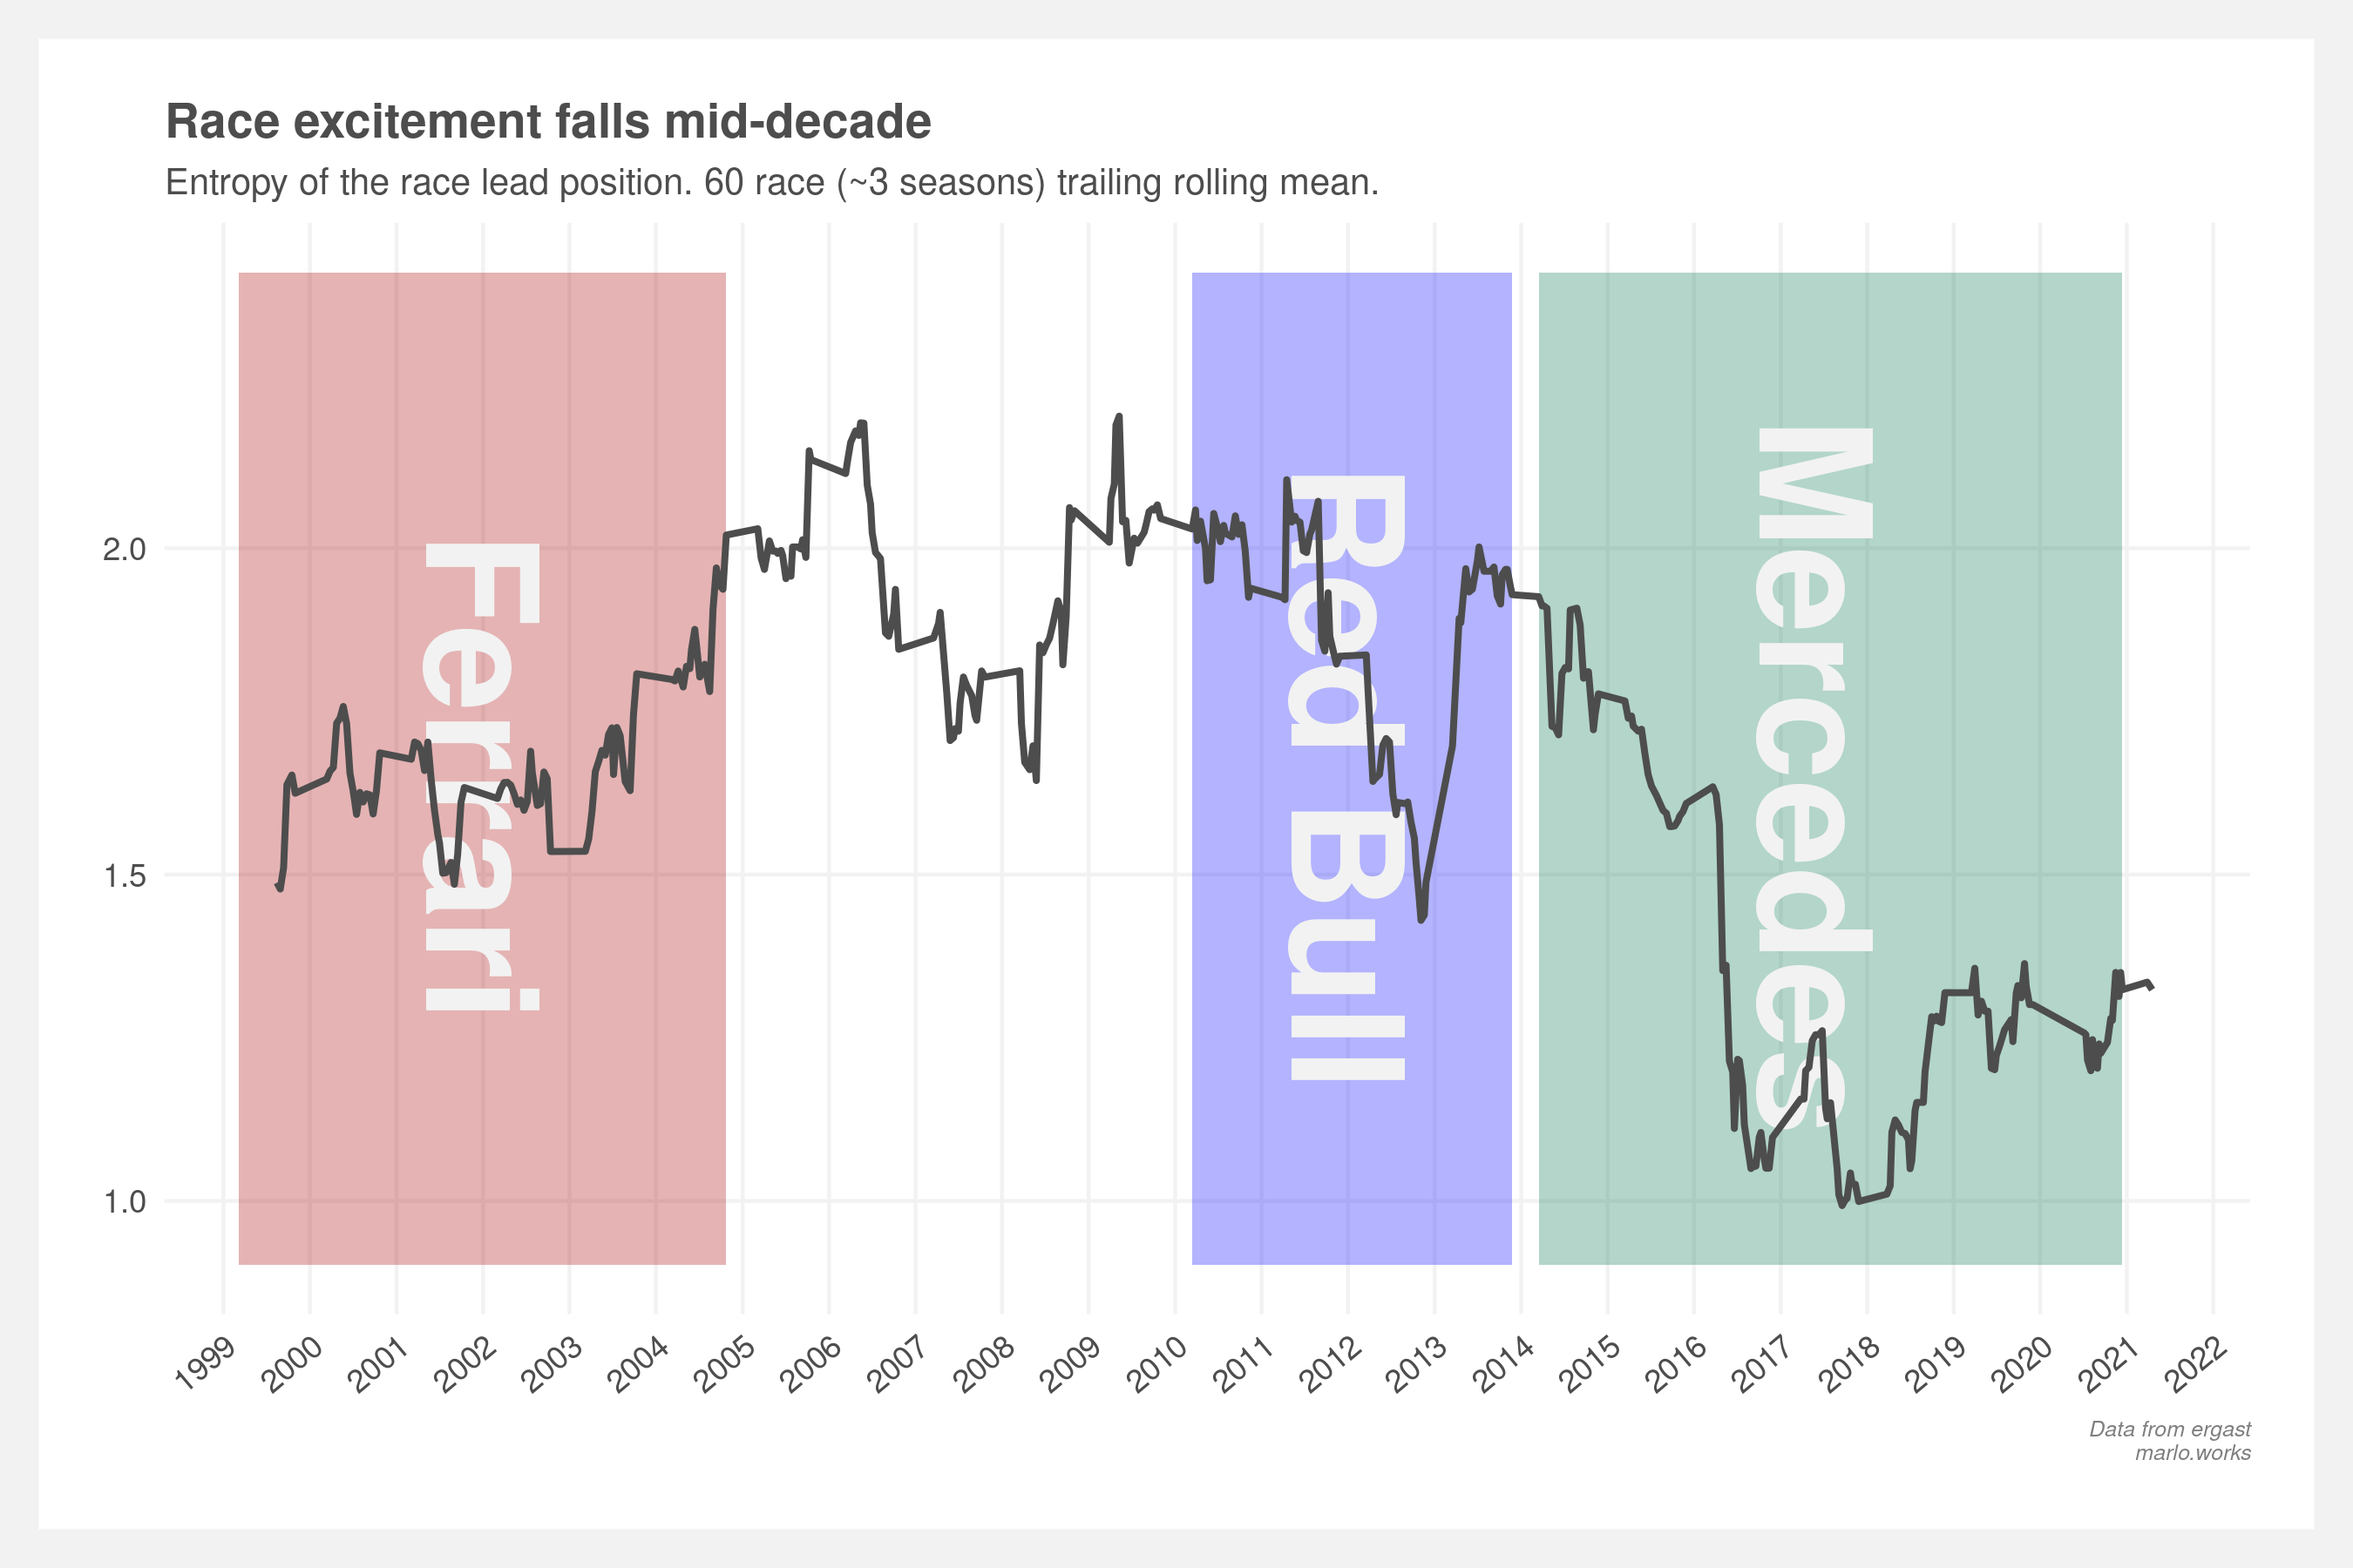
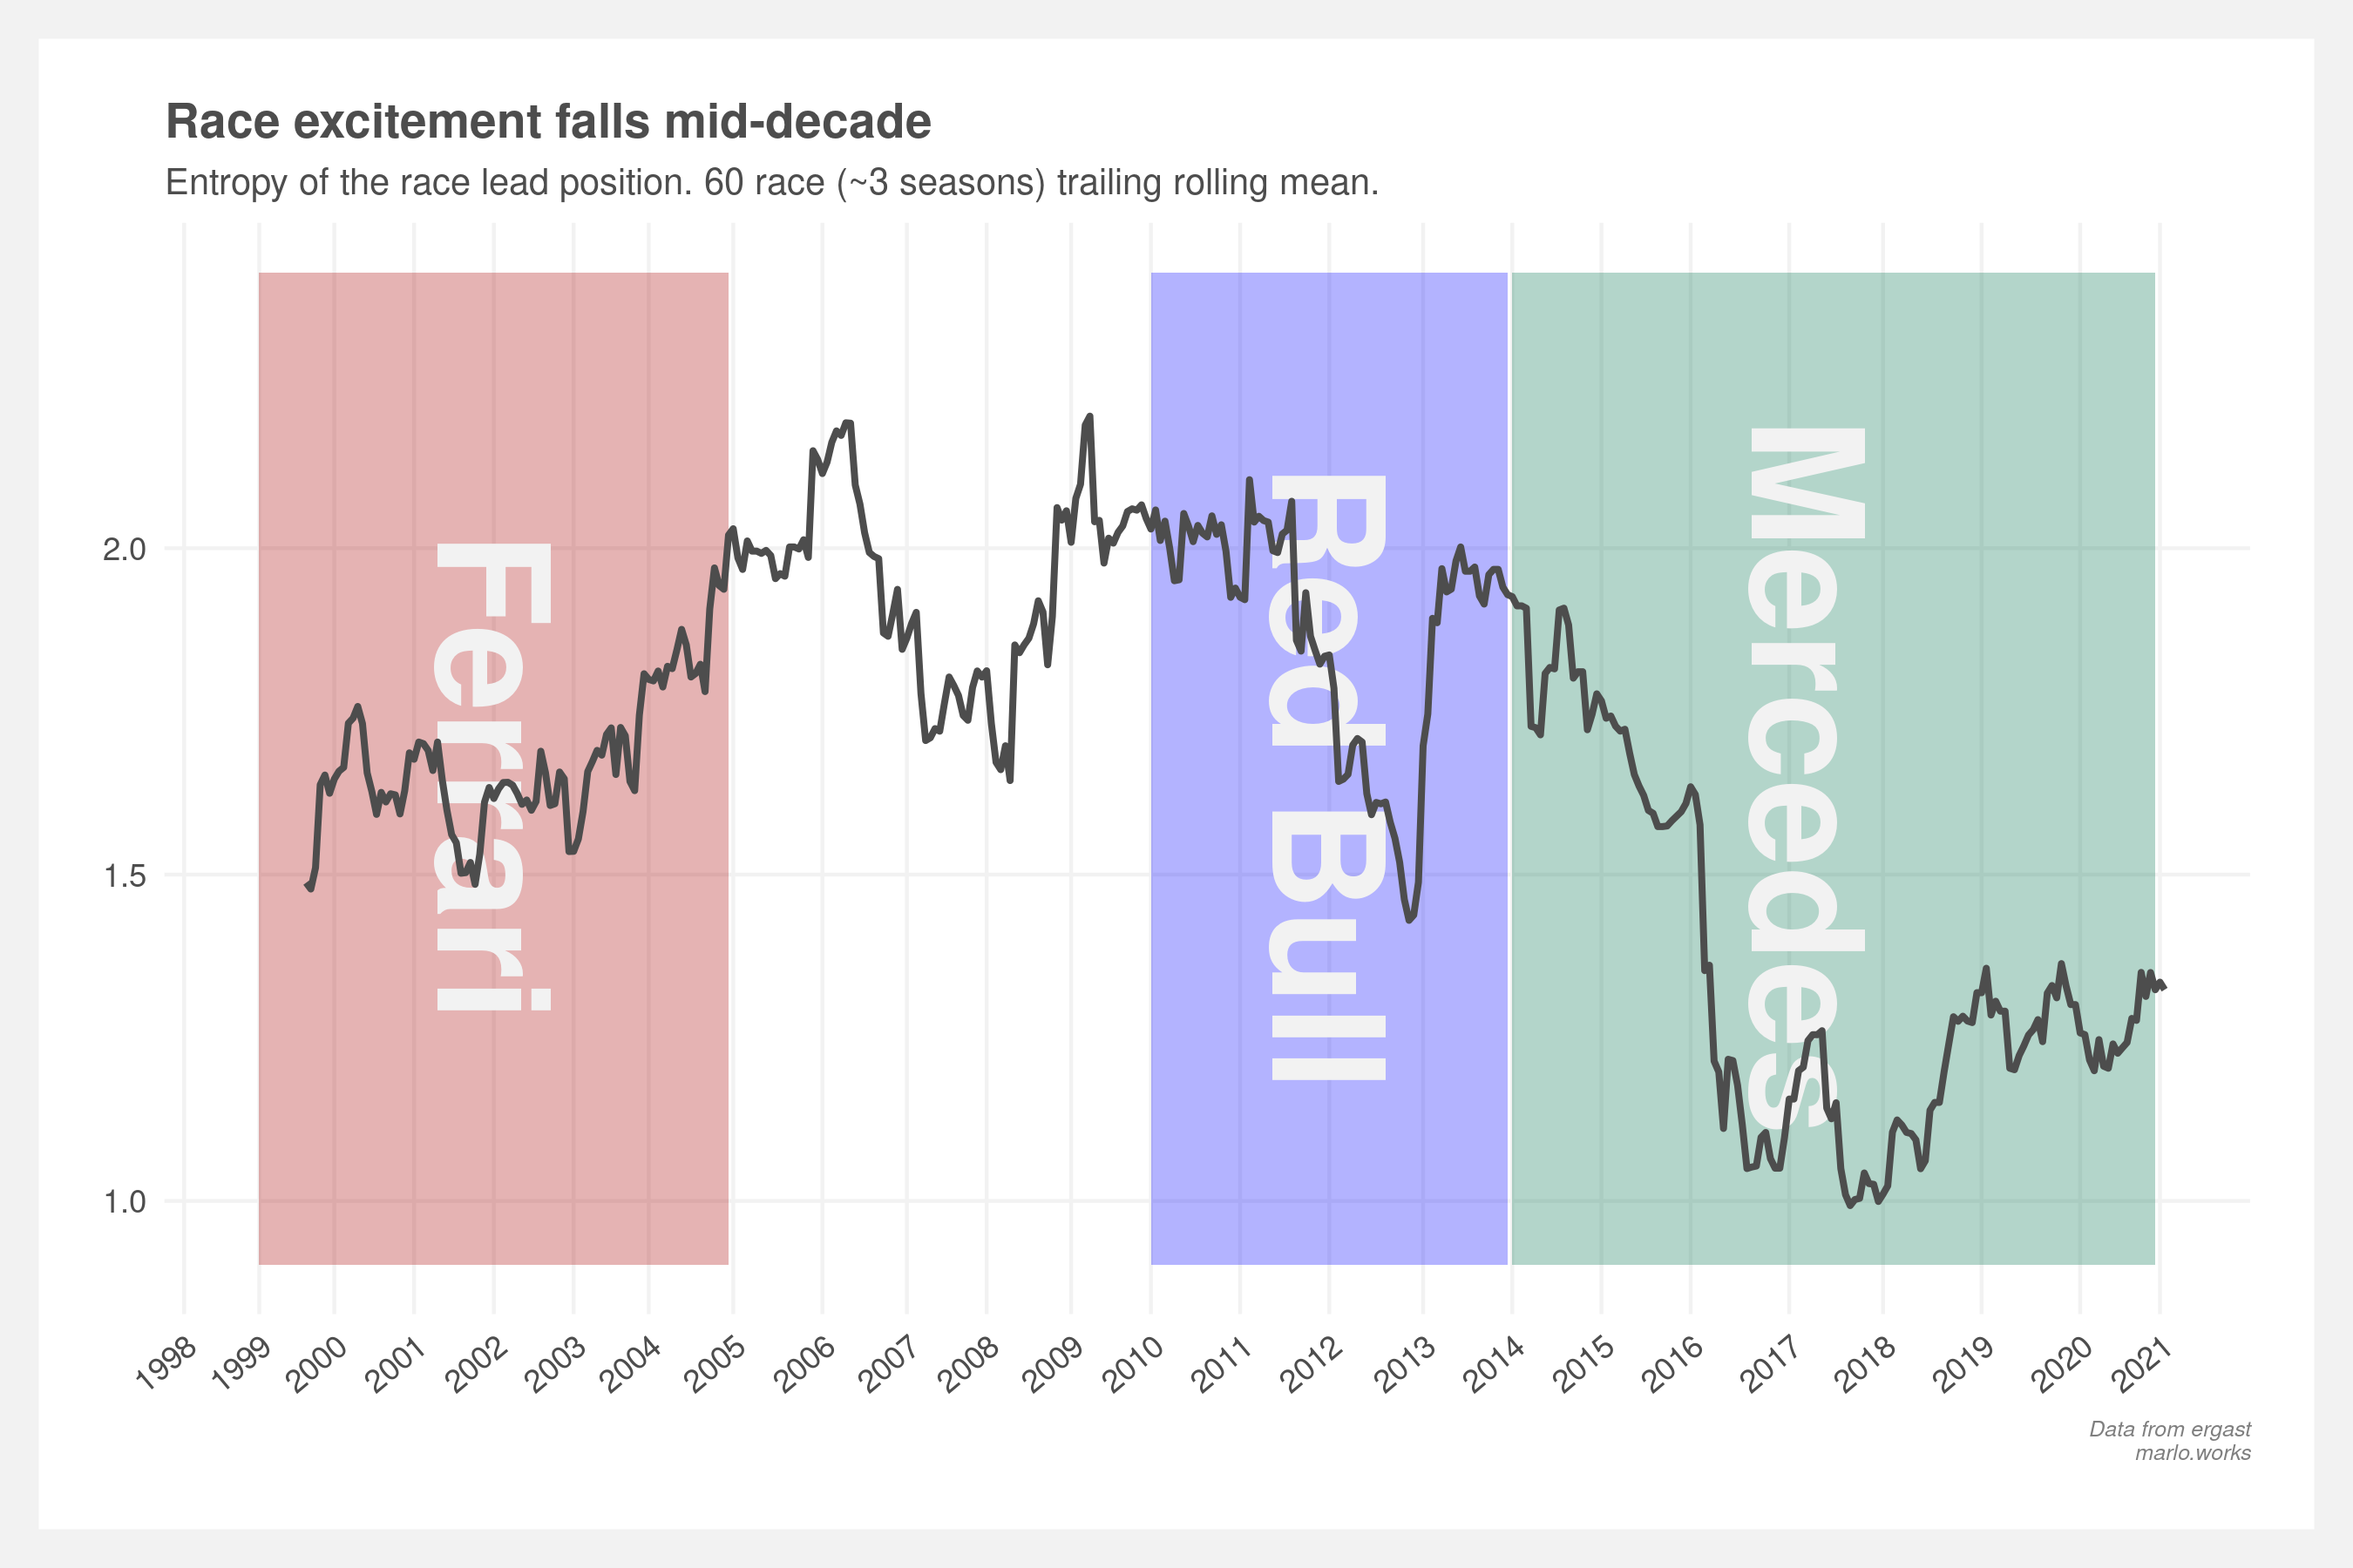
rebuilding site Tue 20 Apr 2021 02:36:32 PM EDT

diff --git a/posts/f1-entropy/index.html b/posts/f1-entropy/index.html
@@ -129,7 +129,7 @@
 <p align="center">
 <img src="/img/posts/F1-entropy/top_five.png" width=90%>
 </p>
-<p>The inverse, the worst races by excitement, are races where the pole sitter maintained the lead throughout the entire race. There&rsquo;s been 80 of these races since 1996.</p>
+<p>The inverse, the worst races by excitement, are races where the first lap leader maintained the lead throughout the entire race. There&rsquo;s been 80 of these races since 1996.</p>
 <br>
 <h4 id="but-what-about-the-midfield">But what about the midfield?</h4>
 <p>Formula One supporters (bolstered by television announcers and Formula One itself) enjoy pivoting the debate to the midfield. I agree changes in race lead do not tell the whole story. Mercedes dominated the 2020 season, but, as a viewer, it was an empirically exciting season. It was thanks to haphazard scheduling, novel circuits, double-headers, three red-flagged races, a driver reshuffling at the end of the season, and, of course, the terrible <a href="https://www.skysports.com/f1/news/12433/12237161/romain-grosjean-accident-findings-published-by-fia-with-fiery-bahrain-gp-crash-measured-at-67g">Grosjean incident</a>.</p>
